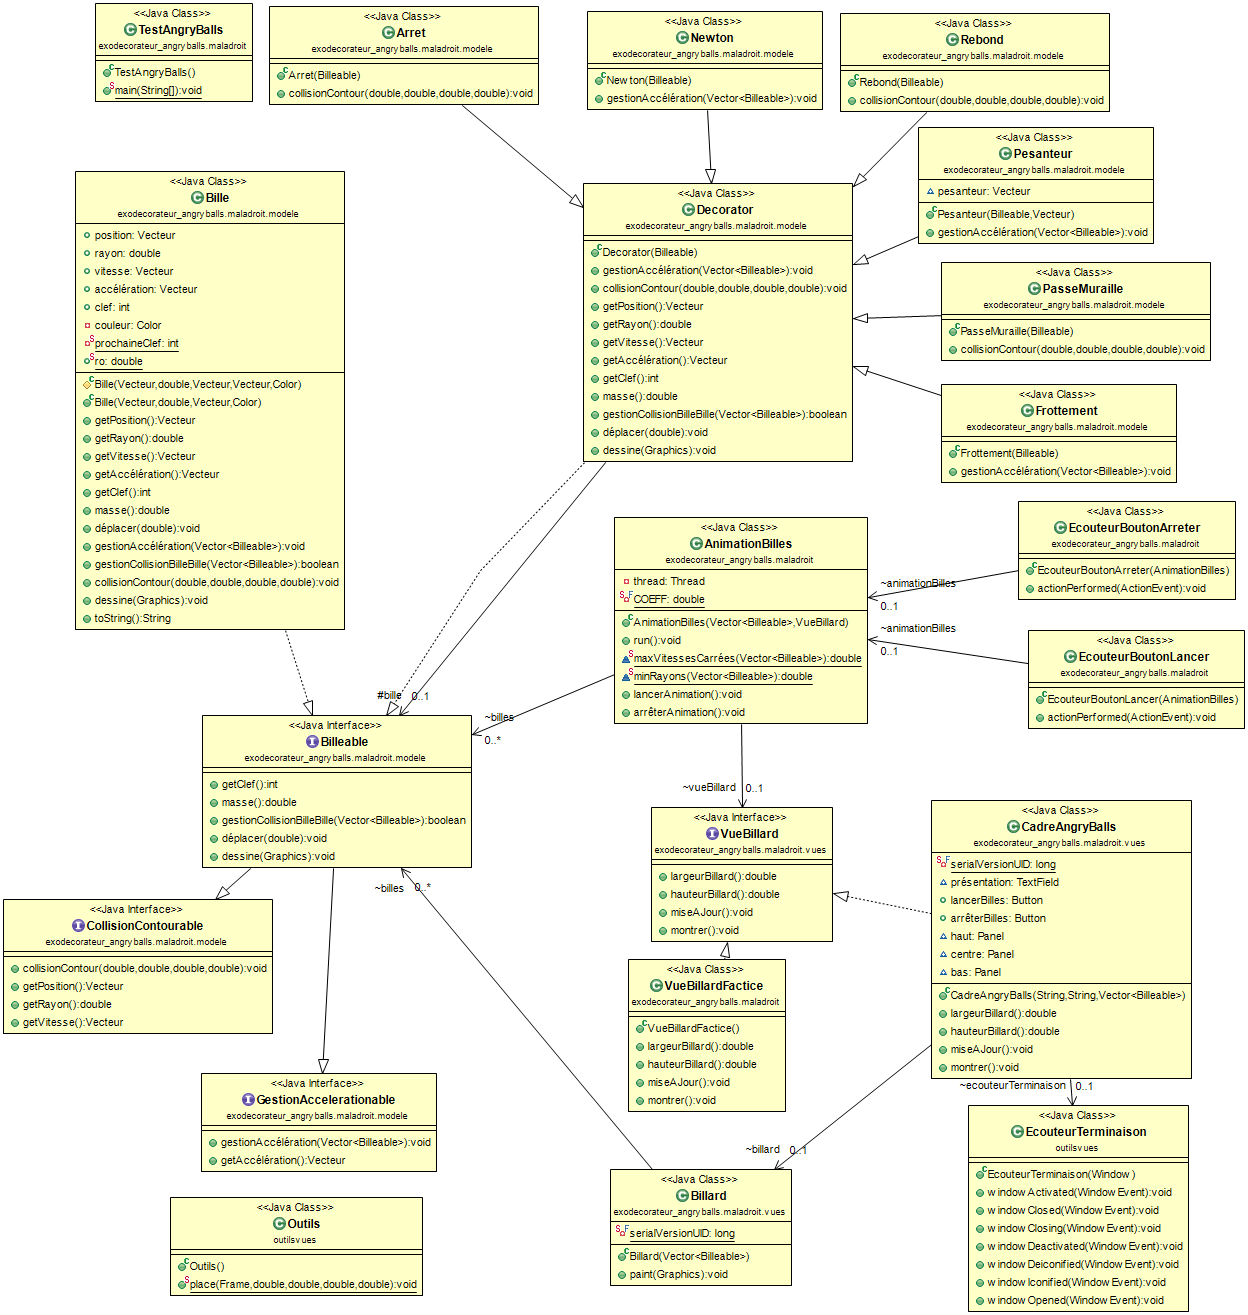
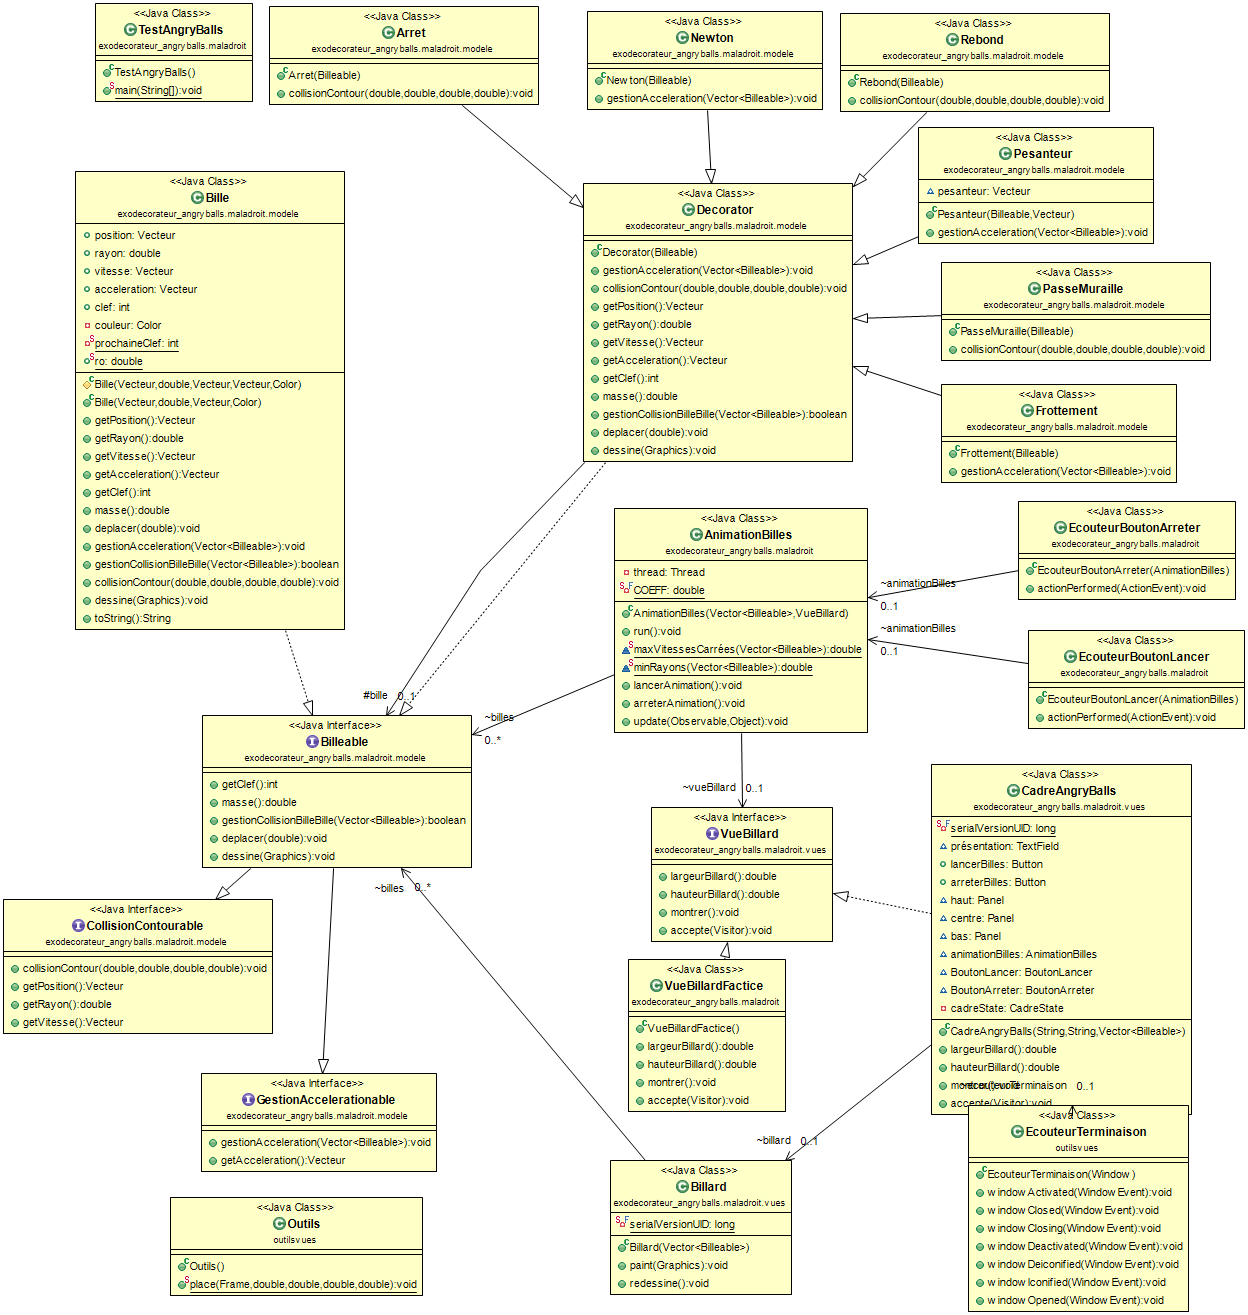
Ajout DP_Observer + DP_Visitor

diff --git a/projet_angryballs_2017_2018/exodecorateur_angryballs_maladroit_sources/exodecorateur_angryballs/maladroit/vues/Billard.java b/projet_angryballs_2017_2018/exodecorateur_angryballs_maladroit_sources/exodecorateur_angryballs/maladroit/vues/Billard.java
@@ -2,14 +2,12 @@ package exodecorateur_angryballs.maladroit.vues;
 
 import java.awt.Canvas;
 import java.awt.Graphics;
+import java.awt.image.BufferStrategy;
 import java.util.Vector;
 import exodecorateur_angryballs.maladroit.modele.Billeable;
 
 /**
  * responsable du dessin des billes
- * 
- * ICI : IL N'Y A RIEN A CHANGER
- * 
  * 
  */
 public class Billard extends Canvas {
@@ -34,6 +32,25 @@ public class Billard extends Canvas {
 
 		for (i = 0; i < this.billes.size(); ++i)
 			this.billes.get(i).dessine(graphics);
-		// System.out.println("billes dans le billard = " + billes);
+	}
+
+	public void redessine() {
+		int i;
+		BufferStrategy myStrategy = getBufferStrategy();        
+        
+		if (myStrategy == null) {
+			createBufferStrategy(2);
+			return;
+		}
+		Graphics g = null;
+		g = myStrategy.getDrawGraphics();
+		g.setColor( getBackground() );
+        g.fillRect( 0, 0, this.getWidth(), this.getHeight() );
+		for (i = 0; i < this.billes.size(); ++i)
+		{
+			this.billes.get(i).dessine(g);
+		}
+		g.dispose();
+		myStrategy.show();
 	}
 }

diff --git a/projet_angryballs_2017_2018/exodecorateur_angryballs_maladroit_sources/exodecorateur_angryballs/maladroit/VueBillardFactice.java b/projet_angryballs_2017_2018/exodecorateur_angryballs_maladroit_sources/exodecorateur_angryballs/maladroit/VueBillardFactice.java
@@ -1,5 +1,6 @@
 package exodecorateur_angryballs.maladroit;
 
+import exodecorateur_angryballs.maladroit.vues.Visitor;
 import exodecorateur_angryballs.maladroit.vues.VueBillard;
 
 public class VueBillardFactice implements VueBillard {
@@ -17,12 +18,13 @@ public class VueBillardFactice implements VueBillard {
 	}
 
 	@Override
-	public void miseAJour() {
+	public void montrer() {
 		// TODO Auto-generated method stub
 	}
 
 	@Override
-	public void montrer() {
+	public void accepte(Visitor visitor) {
 		// TODO Auto-generated method stub
+		
 	}
 }

diff --git a/projet_angryballs_2017_2018/exodecorateur_angryballs_maladroit_sources/exodecorateur_angryballs/maladroit/vues/ActiveVisitor.java b/projet_angryballs_2017_2018/exodecorateur_angryballs_maladroit_sources/exodecorateur_angryballs/maladroit/vues/ActiveVisitor.java
@@ -1,0 +1,10 @@
+package exodecorateur_angryballs.maladroit.vues;
+
+public class ActiveVisitor implements Visitor{
+
+	@Override
+	public void visite(Billard billard) {
+		billard.redessine();
+		
+	}
+}

diff --git a/projet_angryballs_2017_2018/exodecorateur_angryballs_maladroit_sources/exodecorateur_angryballs/maladroit/vues/PassiveVisitor.java b/projet_angryballs_2017_2018/exodecorateur_angryballs_maladroit_sources/exodecorateur_angryballs/maladroit/vues/PassiveVisitor.java
@@ -1,0 +1,9 @@
+package exodecorateur_angryballs.maladroit.vues;
+
+public class PassiveVisitor implements Visitor{
+	
+	@Override
+	public void visite(Billard billard) {
+		billard.repaint();
+	}
+}

diff --git a/projet_angryballs_2017_2018/exodecorateur_angryballs_maladroit_sources/exodecorateur_angryballs/maladroit/vues/VueBillard.java b/projet_angryballs_2017_2018/exodecorateur_angryballs_maladroit_sources/exodecorateur_angryballs/maladroit/vues/VueBillard.java
@@ -12,7 +12,7 @@ public interface VueBillard {
 
 	public double hauteurBillard();
 
-	public void miseAJour();
-
 	public void montrer();
+
+	public void accepte(Visitor visitor);
 }

diff --git a/projet_angryballs_2017_2018/exodecorateur_angryballs_maladroit_sources/exodecorateur_angryballs/maladroit/vues/Visitor.java b/projet_angryballs_2017_2018/exodecorateur_angryballs_maladroit_sources/exodecorateur_angryballs/maladroit/vues/Visitor.java
@@ -1,0 +1,6 @@
+package exodecorateur_angryballs.maladroit.vues;
+
+public interface Visitor {
+	void visite(Billard billard);
+
+}
